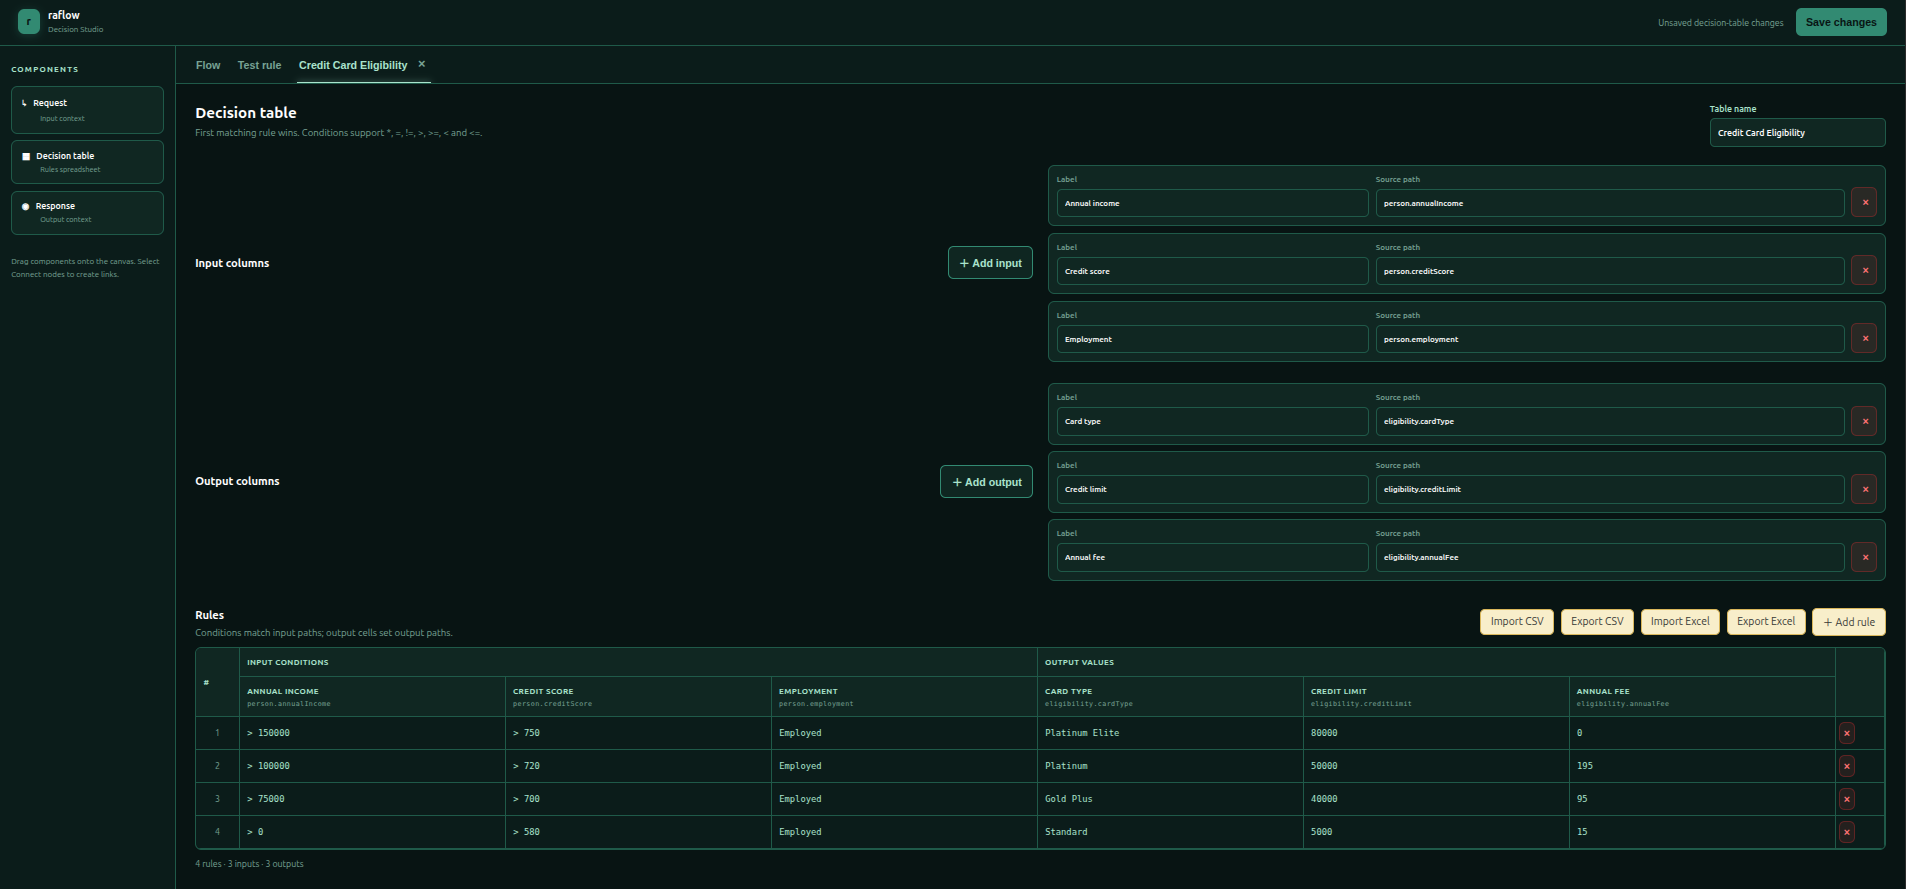
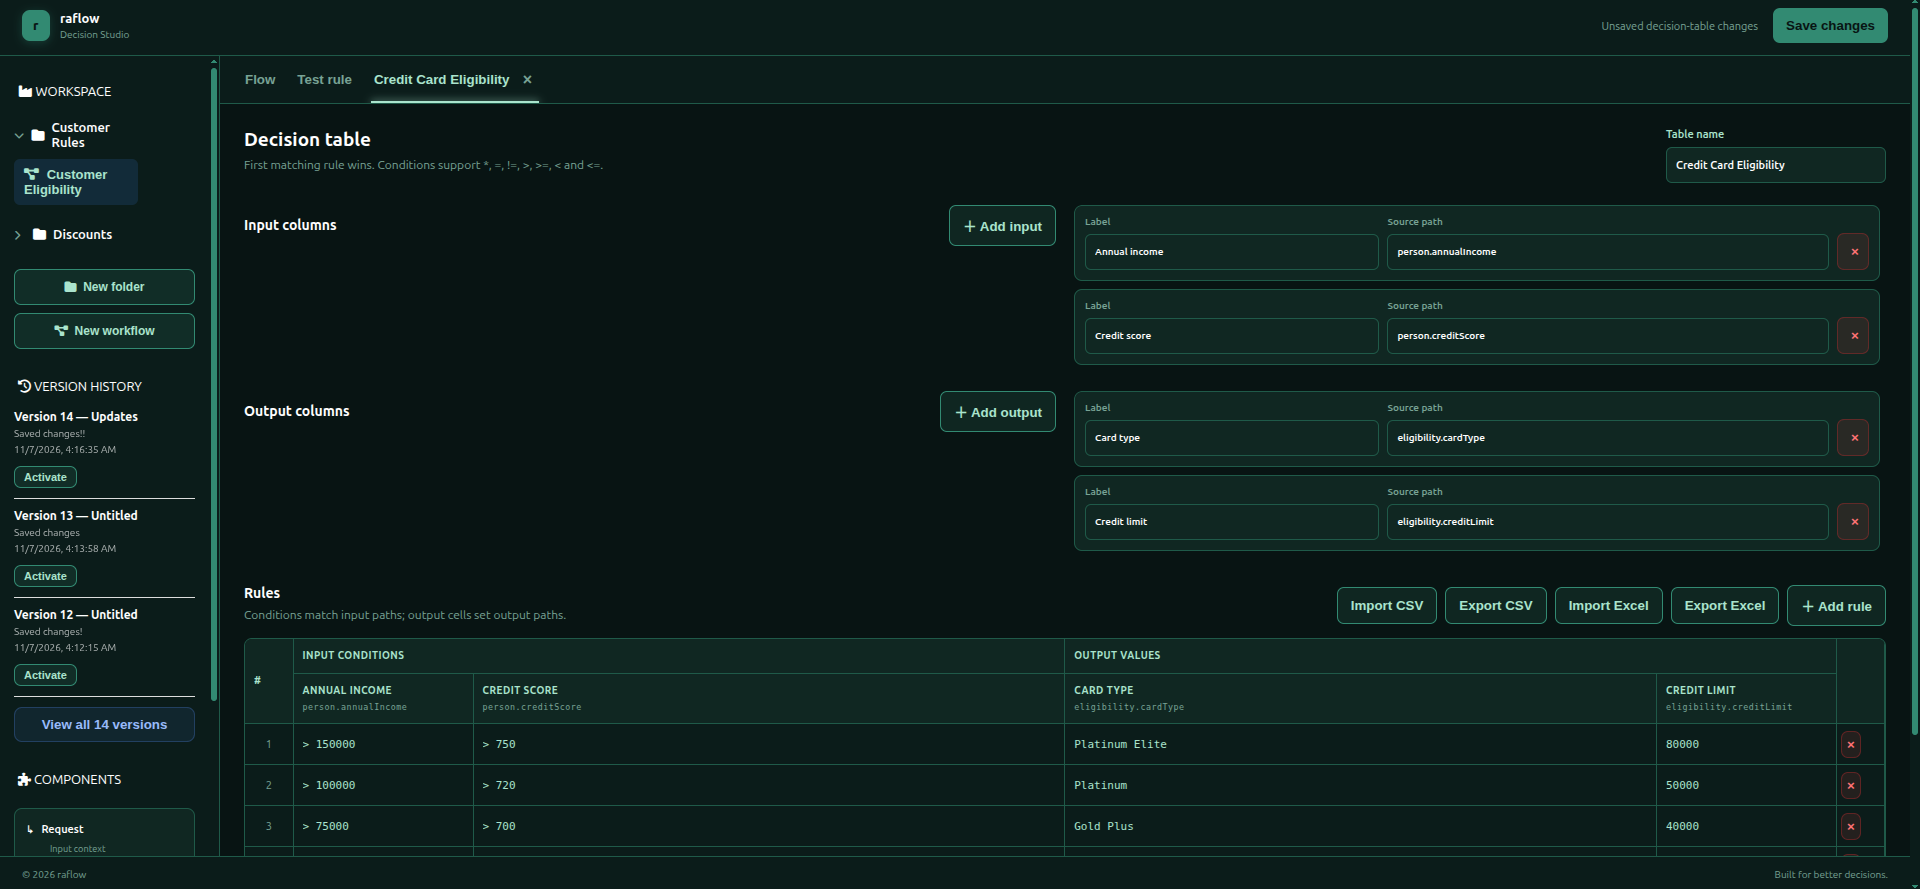
ui fixes and new assets

diff --git a/src/Raflow.Web/wwwroot/js/workspace.js b/src/Raflow.Web/wwwroot/js/workspace.js
@@ -10,6 +10,9 @@
     folders: [],
     activeWorkflowId: localStorage.getItem("raflow.activeWorkflowId"),
     activeWorkflowName: localStorage.getItem("raflow.activeWorkflowName"),
+    expandedFolders: JSON.parse(
+      localStorage.getItem("raflow.expandedFolders") || "{}",
+    ),
   };
 
   async function api(url, options = {}) {
@@ -202,8 +205,15 @@
       const folderElement = document.createElement("div");
       folderElement.className = "workspace-folder";
 
+      const isExpanded = state.expandedFolders[folder.id] ?? true;
+
       const title = document.createElement("div");
       title.className = "workspace-folder-title";
+
+      const chevron = document.createElement("i");
+      chevron.className = `fa-solid ${
+        isExpanded ? "fa-chevron-down" : "fa-chevron-right"
+      } workspace-folder-chevron`;
 
       const folderIcon = document.createElement("i");
       folderIcon.className = "fa-solid fa-folder";
@@ -211,7 +221,7 @@
       const folderName = document.createElement("span");
       folderName.textContent = folder.name;
 
-      title.append(folderIcon, folderName);
+      title.append(chevron, folderIcon, folderName);
 
       const folderActions = document.createElement("div");
       folderActions.className = "workspace-item-actions";
@@ -222,7 +232,25 @@
       );
 
       title.appendChild(folderActions);
+
+      title.addEventListener("click", (event) => {
+        if (event.target.closest(".workspace-item-actions")) return;
+
+        state.expandedFolders[folder.id] = !isExpanded;
+
+        localStorage.setItem(
+          "raflow.expandedFolders",
+          JSON.stringify(state.expandedFolders),
+        );
+
+        renderWorkspace();
+      });
+
       folderElement.appendChild(title);
+
+      const workflowList = document.createElement("div");
+      workflowList.className = "workspace-folder-workflows";
+      workflowList.hidden = !isExpanded;
 
       for (const workflow of folder.workflows) {
         const item = document.createElement("div");
@@ -260,9 +288,10 @@
         );
 
         item.append(openButton, actions);
-        folderElement.appendChild(item);
+        workflowList.appendChild(item);
       }
 
+      folderElement.appendChild(workflowList);
       tree.appendChild(folderElement);
     }
   }

diff --git a/src/Raflow.Web/wwwroot/css/site.css b/src/Raflow.Web/wwwroot/css/site.css
@@ -785,18 +785,20 @@ nav#tabs .tab {
   flex-wrap: wrap;
 }
 
+/* Decision table action buttons */
 .table-actions button {
-  border: 1px solid #d6b54d;
-  border-radius: 6px;
-  padding: 7px 12px;
-  background: #f7edc7;
-  color: #343633;
-  cursor: pointer;
-  font: inherit;
+  background: rgba(64, 138, 113, 0.15);
+  color: var(--accent-primary);
+  border: 1px solid var(--accent-mid);
+  border-radius: 7px;
+  transition: all 0.2s ease;
 }
 
 .table-actions button:hover {
-  background: #efdf9f;
+  background: var(--accent-mid);
+  color: var(--bg-main);
+  border-color: var(--accent-primary);
+  box-shadow: 0 0 10px rgba(176, 228, 204, 0.15);
 }
 
 /* Workspace sidebar */
@@ -1397,4 +1399,28 @@ dialog.workspace-input-dialog .workspace-input-form {
   color: var(--text-muted);
   font-size: 10px;
   line-height: 1.6;
+}
+.workspace-folder-title {
+  cursor: pointer;
+}
+
+.workspace-folder-chevron {
+  width: 12px;
+  font-size: 10px;
+  color: var(--text-muted);
+  transition: transform 0.2s ease;
+}
+
+.workspace-folder-workflows[hidden] {
+  display: none !important;
+}
+.app-footer {
+  position: fixed;
+  bottom: 0;
+  left: 0;
+  right: 0;
+  z-index: 100;
+}
+.app-content {
+  padding-bottom: 36px;
 }
